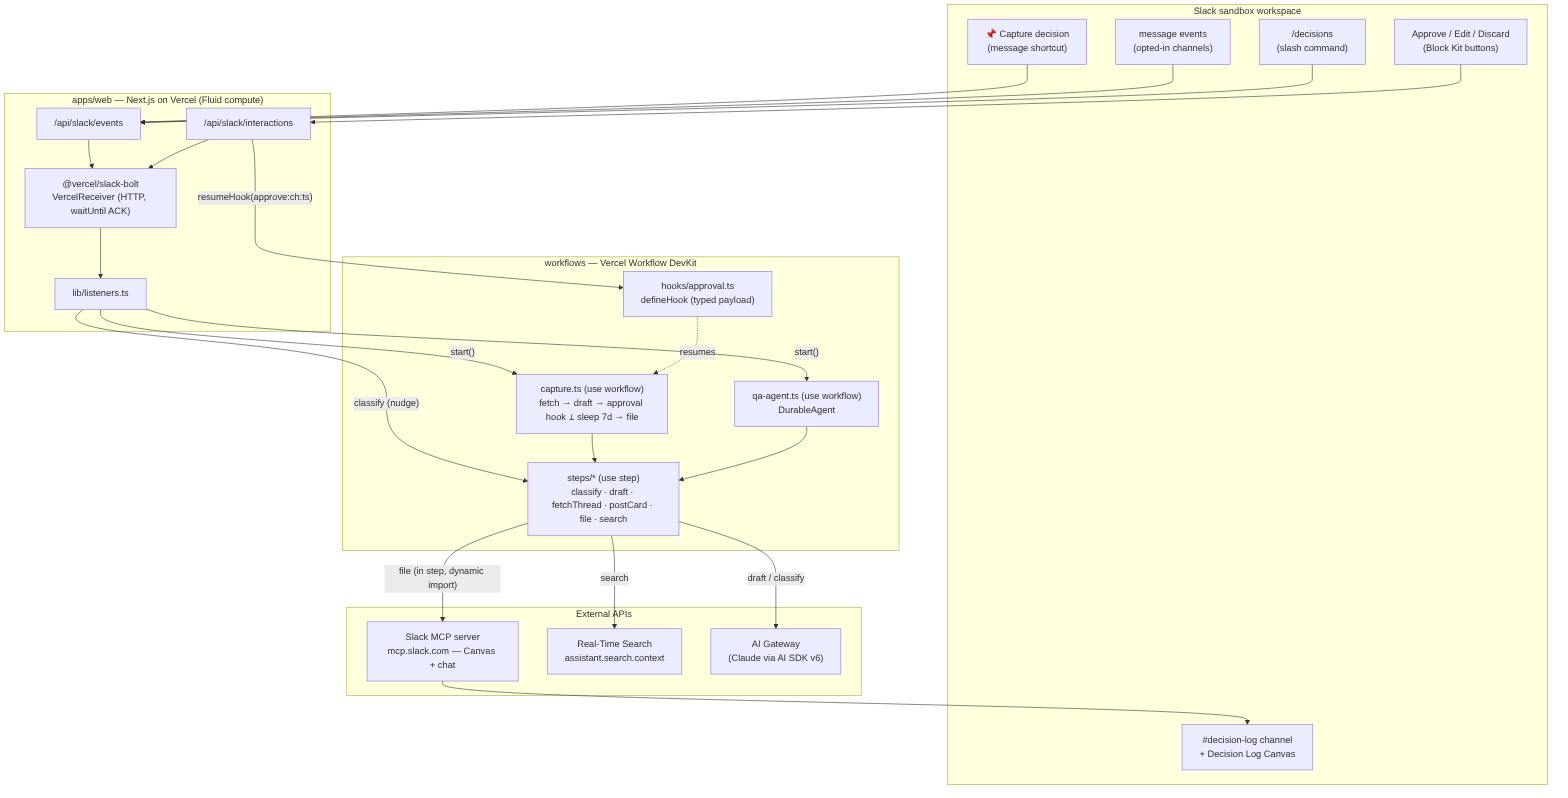
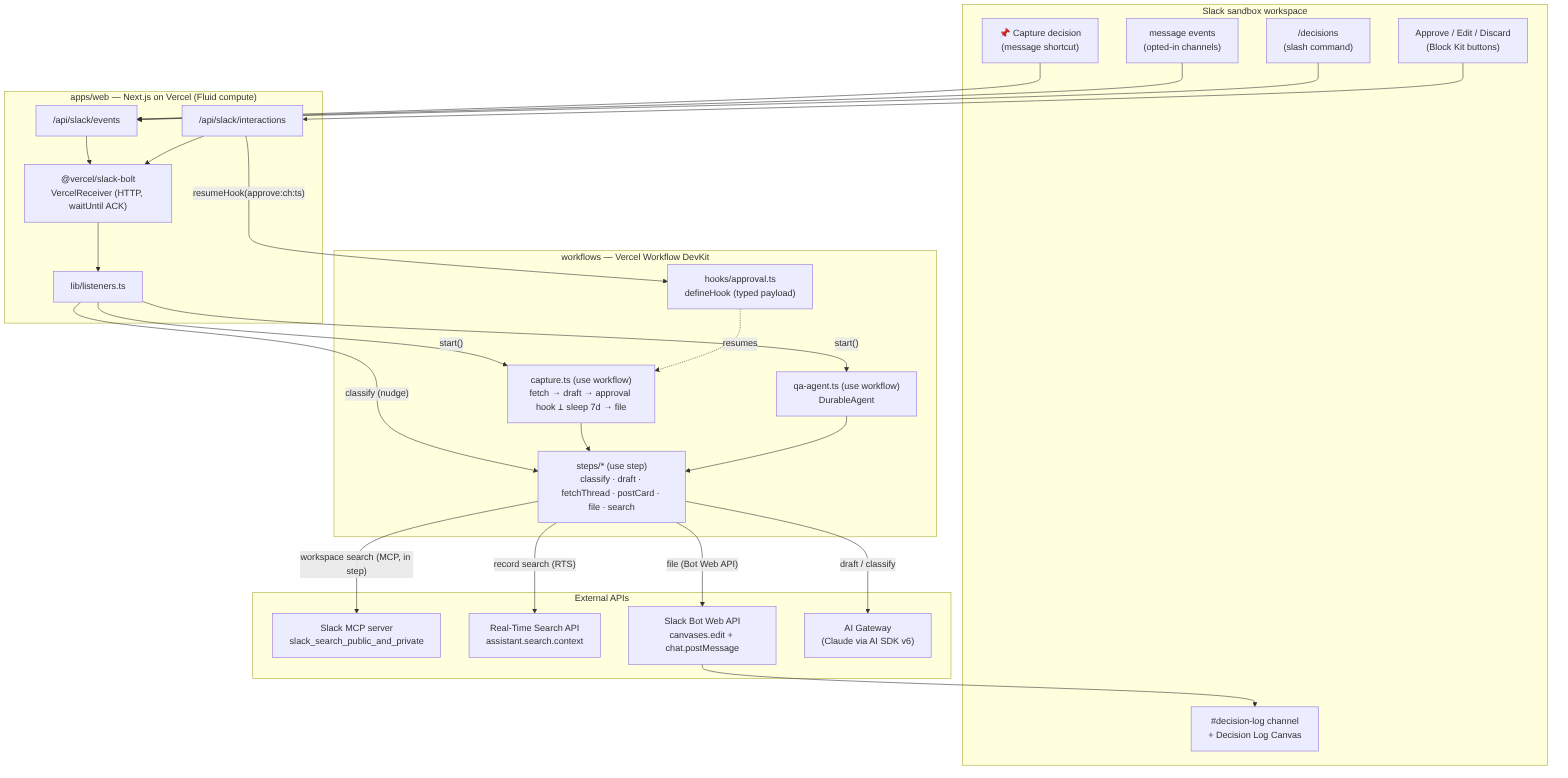
docs: accurate all-3-techs architecture (MCP=agent search, RTS=record search, Bot API=writes) + rendered diagram PNG

diff --git a/README.md b/README.md
@@ -18,8 +18,10 @@ Quorum does — and it uses all three required hackathon technologies, each load
 | Tech | Where it's used |
 |---|---|
 | **Slack AI / Agent** | A Vercel `DurableAgent` answers `@Quorum` mentions and the `/decisions` slash command with grounded, cited Q&A |
-| **MCP server integration** | Files records to a Slack **Canvas** + `#decision-log` via the hosted Slack MCP server (`mcp.slack.com`) |
-| **Real-Time Search (RTS) API** | `assistant.search.context` grounds answers in fresh, permission-scoped Slack content with permalink citations |
+| **MCP server integration** | The Q&A `DurableAgent` searches the workspace via the hosted Slack MCP server (`mcp.slack.com`, `slack_search_public_and_private`), called inside a workflow step |
+| **Real-Time Search (RTS) API** | `assistant.search.context` retrieves curated Decision Records, permission-scoped to the asker, with permalink citations |
+
+Records are written (Canvas + `#decision-log`) via the Slack Bot Web API (`canvases.edit` + `chat.postMessage`), since the hosted MCP server is scope-gated to search for our token.
 
 Plus **Vercel Workflow** for durable human-in-the-loop: the approval step suspends for up to
 **7 days** at zero compute, then resumes exactly where it paused when someone clicks Approve.
@@ -37,9 +39,10 @@ Verified against the live deployment and the test suite:
   opens a modal to revise title / decision / rationale before approval; all three resume the durable
   workflow hook.
 - **Filing** — on approval the record is filed to a Slack Canvas and the `#decision-log` channel
-  through the hosted Slack MCP server.
+  via the Slack Bot Web API (`canvases.edit` + `chat.postMessage`).
 - **Grounded Q&A** — `@Quorum <question>` (in-thread) and `/decisions <question>` run a `DurableAgent`
-  that searches filed records first, then falls back to Slack Real-Time Search with permalink citations.
+  that searches curated records via RTS first, then the broader workspace via the Slack MCP server,
+  answering with permalink citations.
 - **Live deploy** — `GET /api/health` returns `{"ok":true,"service":"quorum",...}` (HTTP 200) at the
   URL above.
 
@@ -61,8 +64,8 @@ See [docs/ARCHITECTURE.md](docs/ARCHITECTURE.md). Hybrid by design:
 - **Capture pipeline** → deterministic `"use workflow"` (draft → durable approval hook → file).
   The approval step races `approvalHook.create({ token })` against `sleep("7d")`; whichever resolves
   first decides the outcome.
-- **Q&A** → `DurableAgent` with two tools: `searchRecords` (filed records first) and `searchWorkspace`
-  (RTS fallback).
+- **Q&A** → `DurableAgent` with two tools: `searchRecords` (curated records via RTS) and
+  `searchWorkspace` (broad workspace via the Slack MCP server).
 - **Storage** → Slack-native (Canvas + `#decision-log`). No external DB.
 
 Design and spike notes: [docs/superpowers/specs/2026-06-06-decision-memory-agent-design.md](docs/superpowers/specs/2026-06-06-decision-memory-agent-design.md),

diff --git a/docs/ARCHITECTURE.md b/docs/ARCHITECTURE.md
@@ -29,8 +29,9 @@ flowchart TB
     end
 
     subgraph Ext["External APIs"]
-        MCP["Slack MCP server<br/>mcp.slack.com — Canvas + chat"]
-        RTS["Real-Time Search<br/>assistant.search.context"]
+        MCP["Slack MCP server<br/>slack_search_public_and_private"]
+        RTS["Real-Time Search API<br/>assistant.search.context"]
+        WEB["Slack Bot Web API<br/>canvases.edit + chat.postMessage"]
         LLM["AI Gateway<br/>(Claude via AI SDK v6)"]
     end
 
@@ -47,11 +48,14 @@ flowchart TB
     HOOK -. resumes .-> CAP
     CAP --> STEPS
     QA --> STEPS
-    STEPS -->|"file (in step, dynamic import)"| MCP
-    STEPS -->|"search"| RTS
+    STEPS -->|"file (Bot Web API)"| WEB
+    STEPS -->|"workspace search (MCP, in step)"| MCP
+    STEPS -->|"record search (RTS)"| RTS
     STEPS -->|"draft / classify"| LLM
-    MCP --> LOG
+    WEB --> LOG
 ```
+
+**Three required techs, each load-bearing:** Slack AI/**Agent** (`DurableAgent` + Assistant surface) · **MCP** (the Q&A agent searches the workspace via the Slack MCP server's `slack_search_public_and_private`) · **RTS** (`assistant.search.context` for curated record retrieval). Writes (Canvas + channel) use the Bot Web API, since the hosted MCP server is scope-gated to search for our token.
 
 ## Control-flow split (why hybrid)
 
